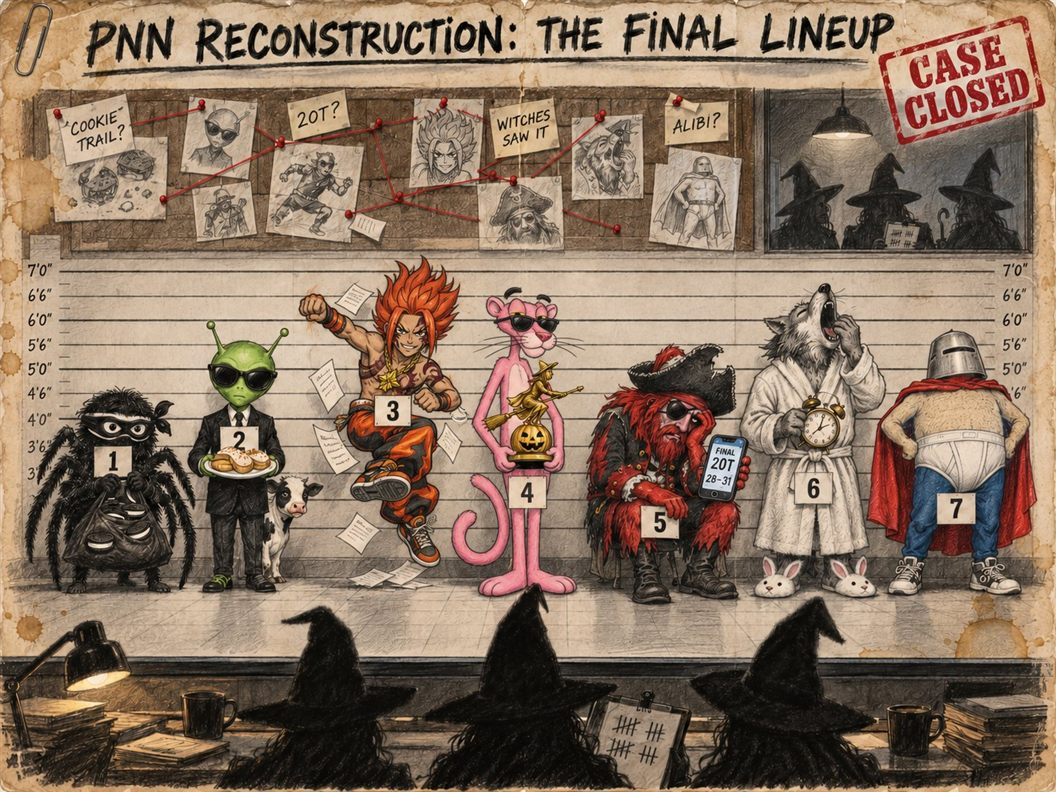
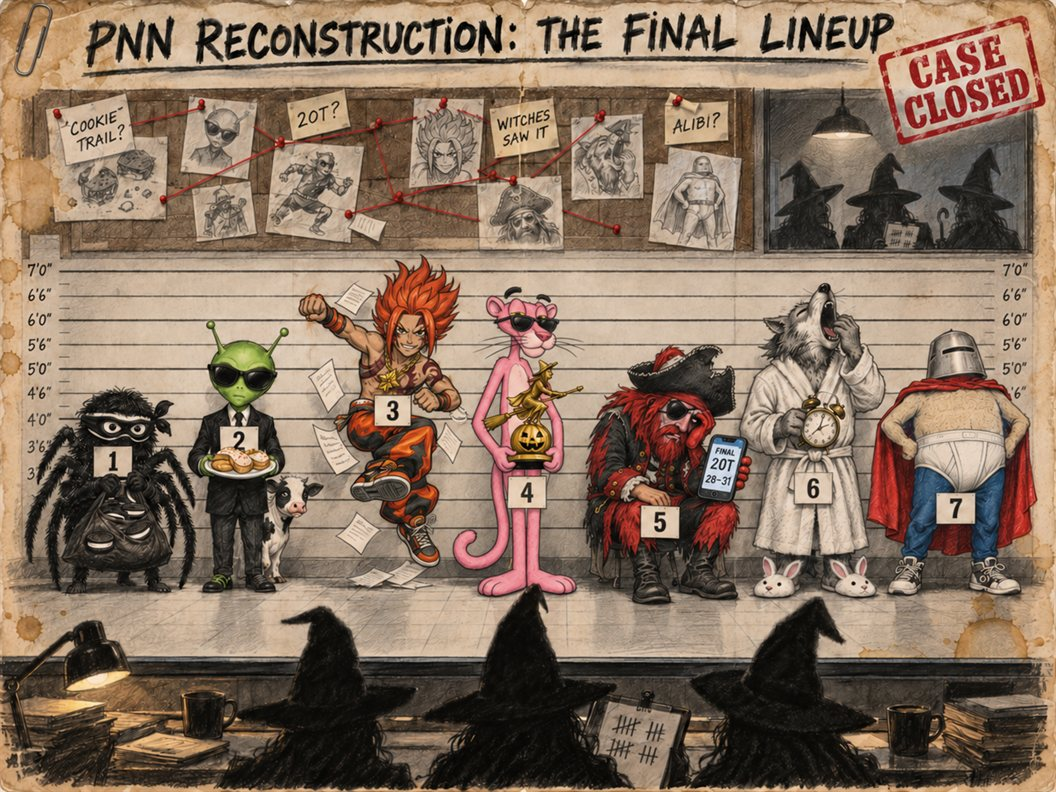
Case 21, newsletter 12: corrected final lineup sketch; move unassigned media to resources/
Replace Exhibit A and the newsletter 012 thumbnail with the corrected lineup
(pirate no longer head-in-hand) and update the alt text and caption to match.
Unassigned media now lives in an untracked resources/ folder.

diff --git a/docs/repository-reference.md b/docs/repository-reference.md
@@ -61,7 +61,7 @@ The Tip Line links to `tips/flier.html`, a one-sheet letter portrait flier using
 
 The stable `/newsletter/` page lists numbered editions built from `data/newsletters/<id>.json` by `npm run build`; `npm run new-edition -- 002` scaffolds a draft. Shared markup lives in `src/email/newsletter.html` and `src/email/newsletter.js`. Edition 001 is now `published` at `newsletter/001/index.html`, not a sample. No separate plain-text file is maintained because EmailOctopus generates that alternative. Emails include the three required EmailOctopus footer tags and no website scripts/analytics. They use presentation tables, inline core styles, system fonts, absolute HTTPS links, and PNG/JPEG imagery. Keep copy readable with images blocked and without media queries or JavaScript. **Click-through levers (the newsletter exists to send readers to the site):** the featured-case link is a button with an automatic "N exhibits on file" line (optional `featuredCase.hook` adds a few words), sections may contain `{type: "cta", label, href, note?}` button blocks, and text runs may carry `href` for inline links. Links and buttons may only point at `https://purrpetrators.net/<path>` (no query strings or other hosts; enforced by `validateNewsletter`). **Tracking and images:** every site link in the built email gets `?utm_source=newsletter&utm_medium=email&utm_campaign=edition-<id>&utm_content=<placement>` automatically (authors write clean URLs; JSON never carries UTM). Placements: `logo`, `featured-image`, `featured-button`, `s<section>-button`, `s<section>-link`, `footer-dispatch`, `footer-tips`, `footer-corrections`. The site's Google tag records them as campaign traffic; EmailOctopus reports its own click counts, and security scanners can inflate clicks, so compare the two before trusting a spike. An edition may set `featuredCase.image` (`src` under `assets/email/`, `width`, `height`, `alt`, `caption`) to show a linked thumbnail; make a small JPEG copy (about 1056 px wide, under about 250 KB) of an approved image, never the full evidence file, show no recognizable real people, and state AI reconstructions in the caption. The footer is one Dispatch button, the Tip Line, the Corrections link, the hotline, and the review notice; do not add more competing links. **Experiments:** change one thing per edition and read the `utm_content` split in Google Analytics plus the EmailOctopus click report: teaser length, button label, subject line, and whether the image is present. Vendor claims (button lifts, curiosity-gap gains) are directional; the only controlled test found showed a higher placement and a larger button did not help, so measure before keeping a change. Keep one primary destination per edition (usually the featured case), repeat it as a button after the main feature and near the end, tease rather than summarize the evidence, and say in the `note` that the exhibits live on the site. Draft status hides listing links, not files. Keep the neutral **PNN Newsletter** name and preserve edition URLs. See README for schema and import instructions. Future approved PDFs belong under `public/assets/downloads/`; only link files that exist.
 
-**Established edition format:** every edition opens with the optional `featuredCase` block, rendered first as a short, funny, spoiler-light hint toward the latest published case (not a full case summary) — the generator resolves its case title/number from case data and renders it as the opening headline. The `sections` array supplies the main feature next: a hilarious, exaggerated PNN article in the established mock-institute voice, with invented/comedy statistics where useful. The template then automatically appends the fixed PNN Dispatch and Tip Line/hotline closing block; do not duplicate dispatch or tip-line content inside `sections`. Edition 001's main feature (Go Big or Go Haunt / Pink Advantage spoof science / mascot confidence) was drafted using the supplied numbered reference assets in `unassigned-evidence/` (`6587989890773275282.jpg.jpeg`, `9209352435477332460.png`, `20261007_154710.pdf`) purely as tone/content inspiration. Those three files depict a third-party trademarked cartoon character and a fake research-institute mockup; they are reference material only and must never be embedded, linked, or published on the site or in emails. Future numbered/unlabeled reference assets should be treated the same way unless the user explicitly confirms they are approved game material for publication.
+**Established edition format:** every edition opens with the optional `featuredCase` block, rendered first as a short, funny, spoiler-light hint toward the latest published case (not a full case summary) — the generator resolves its case title/number from case data and renders it as the opening headline. The `sections` array supplies the main feature next: a hilarious, exaggerated PNN article in the established mock-institute voice, with invented/comedy statistics where useful. The template then automatically appends the fixed PNN Dispatch and Tip Line/hotline closing block; do not duplicate dispatch or tip-line content inside `sections`. Edition 001's main feature (Go Big or Go Haunt / Pink Advantage spoof science / mascot confidence) was drafted using the supplied numbered reference assets in `../resources` (`6587989890773275282.jpg.jpeg`, `9209352435477332460.png`, `20261007_154710.pdf`) purely as tone/content inspiration. Those three files depict a third-party trademarked cartoon character and a fake research-institute mockup; they are reference material only and must never be embedded, linked, or published on the site or in emails. Future numbered/unlabeled reference assets should be treated the same way unless the user explicitly confirms they are approved game material for publication.
 
 The newsletter sign-up embed lives in `data/newsletter-subscribe.json` (`embedSrc`, empty by default) and renders on `/newsletter/` at build time (`NewsletterIndexPage`). It uses EmailOctopus's official JavaScript form embed (`<script data-form>` from a sharded `eomailN.com` domain), which EmailOctopus's dashboard supplies per form; `src/lib/embeds.js` validates the URL shape and rebuilds the script tag itself rather than trusting pasted HTML, and adds a `<noscript>` fallback pointing to the Tip Line. This is currently the only part of the site that requires browser JavaScript to function. See README for the setup steps.
 
@@ -123,14 +123,14 @@ Moved from `AGENTS.md`. Page paths are public URLs produced by `src/routes.jsx`.
 | `data/news-ticker.json`, `scripts/ticker.js`, `scripts/ticker.test.mjs` | Pool of 100+ fictional `{tag, text}` headlines for the "PNN LIVE" ticker under the masthead of the homepage and generated case pages. The generator renders a static ticker (live case headlines, an index-standings line, and a sample of pool items) between `BEGIN/END GENERATED TICKER` on the homepage and in `page()`; `ticker.js` fetches the pool, mixes in a random sample on each visit, scrolls it, and adds a pause button (hidden without JS; no animation under `prefers-reduced-motion`). Headlines must stay obviously fictional, make no claims about real people or real organizations, invent no point values or dates, and claim no hotline staffing, recording, or SMS. **Where headlines live:** `data/news-ticker.json` holds only generic items. A headline about one case or newsletter edition belongs in that record's optional `tickerItems` array (`{tag, text}`, text up to 170 characters, unique across all ticker data); each published case needs at least 3 and each non-draft edition at least 2, enforced by `validateRawData`. `mergeTickerPool` in `src/lib/model.js` builds the static ticker from the generic pool plus published cases and non-draft editions, and `ticker.js` rebuilds the same pool in the browser from the files listed in the track's `data-more-src` (`cases.json`, then each `data/newsletters/<id>.json`; any that fail to load are skipped). Unpublished cases and draft editions contribute nothing, and the email HTML never renders `tickerItems`. |
 | `teams/index.html`, `teams/<slug>/index.html`, `data/team-dossiers.json` | Generated team dossier room: one page per team in `data/teams.json` with codename, tagline, threat level, known-for bullets, a long roasting file, strengths, weaknesses, Clueso's advice, case history, and index standing. Dossiers are written only from approved case material and the teams' own statements; they must not invent rosters, members, incidents, or private details, and every team gets roasted. Team names in case text, ratings, the subject panel, and the homepage index link to these pages; `PNN-00X` mentions in dossiers link to cases. |
 | `data/countdown.json`, `scripts/countdown.js`, `scripts/countdown.test.mjs` | Homepage party countdown between `BEGIN/END GENERATED COUNTDOWN`. The user supplied the date: Saturday, October 24, 2026 at 5:30 PM, America/Denver (`2026-10-24T17:30:00-06:00`). Copy mentions time running out to prank and bribe a witch, and repeats only the known October 22 prank/photo deadline. Once `data/final-results.json` exists, the same section becomes a "reign clock" counting up from its `decidedAt` (the pink team's win, 10:15 PM October 24, 2026); `countdown.js` exports `elapsed` for that mode. |
-| `data/final-results.json`, `src/components/home/FinalResults.jsx` | Homepage final scoreboard for the 2026 season, placed under the hero: standings (every team once, points high to low, shared ranks for ties), the identical 22-point base, category winners (ties listed), and a link to the final case (`caseId`, PNN-021). Validated by `validateFinalResults` in `scripts/lib/load-data.mjs`. Transcribed from the witches' scoresheet, which is kept in `unassigned-evidence/` and is never published because it shows the witches' real names; public copy uses Wanda, Hilda, and Glenda. |
+| `data/final-results.json`, `src/components/home/FinalResults.jsx` | Homepage final scoreboard for the 2026 season, placed under the hero: standings (every team once, points high to low, shared ranks for ties), the identical 22-point base, category winners (ties listed), and a link to the final case (`caseId`, PNN-021). Validated by `validateFinalResults` in `scripts/lib/load-data.mjs`. Transcribed from the witches' scoresheet, which is kept in `../resources` and is never published because it shows the witches' real names; public copy uses Wanda, Hilda, and Glenda. |
 | `scripts/not-found.js`, `scripts/not-found.test.mjs` | A random Clueso one-liner on the 404 page; a static line is the no-JS fallback. |
 | `data/daily-tips.json`, `scripts/generate-daily-tip.mjs`, `scripts/daily-tip.js`, `scripts/daily-tip.test.mjs` | At least 20 `{topic, text}` tips for the homepage Daily Tip-Off. The generator embeds the list and a static fallback tip between `BEGIN/END GENERATED DAILY TIP`; the browser script shows a different tip each local day. Tips must repeat only the real game rules. |
 | `cases/index.html`, `cases/001/index.html`, `cases/002/index.html`, `cases/003/index.html`, `cases/004/index.html`, `cases/005/index.html` | Generated archive, PNN-001 name reveal, PNN-002 early witch bribe, PNN-003 dog-walking report, PNN-004 Area 51 Bureau dumpster fire, and PNN-005 Pyro Posse laundry night |
 | `assets/evidence/001/` | PNN-001 media: `black-webb-bandits-panther-reconstruction.mp4` and extracted `black-webb-bandits-panther-reconstruction-poster.jpg` |
 | `assets/evidence/002/` | PNN-002 supplied image: `black-webb-bandits-witch-flier.png` |
 | `assets/evidence/003/` | AI-generated Operation Loose End comic reconstruction for PNN-003 |
-| `unassigned-evidence/` | Supplied media not yet assigned to a case. Lives outside `public/` so it is not deployed; move an item to `public/assets/evidence/<case-id>/` when assigning it. |
+| `../resources` | Supplied media not yet assigned to a case. Lives outside `public/` so it is not deployed; move an item to `public/assets/evidence/<case-id>/` when assigning it. |
 | `assets/images/pnn.svg` | Custom connected PNN lettering, magenta strokes with white inset lines; used in both headers and homepage hero |
 | `assets/images/pnn.png` | Transparent 900 × 330 PNG export of the PNN SVG for email mastheads |
 | `assets/images/logo.png` | Supplied team artwork, 600 × 516 |

diff --git a/README.md b/README.md
@@ -56,7 +56,7 @@ Case IDs are stable three-digit strings, with matching numbers such as `001` / `
 
 Image evidence uses `type: "image"`, a local PNG/JPEG/WebP `src`, positive integer `width` and `height`, and nonempty `id`, `alt`, `label`, `description`, and `caption`. Optional boolean `reconstruction: true` labels an image PNN reconstruction instead of supplied game material; use it for generated illustrations with explicit reconstruction captions. PNN-003 includes an AI-generated sketch in `public/assets/evidence/003/` alongside its anonymous witness report. Images remain uncropped; the first evidence item supplies either its image or video poster to the homepage. Written witness evidence uses `type: "report"`, nonempty `id`, `label`, `description`, and `caption`; no media file is required. The generator escapes the report and labels it as a witness account. Report-only cases produce a text-only homepage feature. PNN-003, at `/cases/003/`, covers the Tightie Whities dog-walking report; its opening timestamp is the case creation time, not an asserted encounter time. Optional `organizerNotice` records contain `attribution`, `timeLabel`, and plain-text `paragraphs`, rendered as an escaped quotation. PNN-002 uses the supplied witch flier and reminder, dated October 6, 2026 at 8:28 p.m. America/Denver as confirmed by the user.
 
-Preview `/cases/`, `/cases/001/`, and `/cases/002/` over HTTP. Explicit `index.html` links also work when opening files directly. Each case displays a subject-team panel using the name, color, and logo resolved from `data/teams.json` through `suspectTeamId` (plus one more panel per `coSuspectTeamIds` entry). The first case uses `assets/evidence/001/black-webb-bandits-panther-reconstruction.mp4` and an extracted `black-webb-bandits-panther-reconstruction-poster.jpg`. Store case media under `public/assets/evidence/<case-id>/` (referenced in JSON as `assets/evidence/<case-id>/...`); keep media awaiting assignment in `unassigned-evidence/`. The former spotlight files have been moved into this structure without altering their contents. Update JSON paths when assigning media. The case generator validates required content, team references, unique IDs, and media paths, and escapes rendered text.
+Preview `/cases/`, `/cases/001/`, and `/cases/002/` over HTTP. Explicit `index.html` links also work when opening files directly. Each case displays a subject-team panel using the name, color, and logo resolved from `data/teams.json` through `suspectTeamId` (plus one more panel per `coSuspectTeamIds` entry). The first case uses `assets/evidence/001/black-webb-bandits-panther-reconstruction.mp4` and an extracted `black-webb-bandits-panther-reconstruction-poster.jpg`. Store case media under `public/assets/evidence/<case-id>/` (referenced in JSON as `assets/evidence/<case-id>/...`); keep media awaiting assignment in `resources`. The former spotlight files have been moved into this structure without altering their contents. Update JSON paths when assigning media. The case generator validates required content, team references, unique IDs, and media paths, and escapes rendered text.
 
 Only records with `published: true` appear in the generated listing. This flag does not make JSON private or remove previously generated pages. If withdrawing an existing case, explicitly replace its old page with an appropriate notice while preserving any printed QR URL. Never store private drafts in deployed data.
 
@@ -97,7 +97,7 @@ This creates `data/newsletters/002.json` with neutral draft copy. Existing sourc
 
 Each filename matches its three-digit `id`. Required fields: `id`, `status` (`draft`, `sample`, or `published`), `title`, `subject`, `preheader`, and nonempty `sections`. Each section has `tone` (`dark`, `white`, `blush`, or `pink`), `heading`, optional `kicker`, and `blocks`. Paragraph blocks use `type: "paragraph"` and `runs` of `{ "text": "...", "bold": true, "italic": true }` (format flags optional); newline characters become line breaks. Statistics blocks use `type: "stats"` and `items` with `value` and `text`. Keep spoof-science labels explicit. Text is HTML-escaped; content merge-tag injection is rejected.
 
-An optional single `featuredCase` contains `id`, an editorial `teaser`, and `linkLabel`. The generator validates that the case is published and resolves its case number/title from `data/cases.json`. **Every edition's established format:** when present, `featuredCase` always renders first, as a short, funny, spoiler-light hint toward the latest published case (teaser copy, not a full case summary), styled as the opening headline. The `sections` array supplies the main feature next: a hilarious, exaggerated PNN article with invented statistics in the established mock-institute voice. The template then automatically appends the fixed PNN Dispatch and Tip Line/hotline closing block; do not duplicate that content in `sections`. Edition 001 published this way: its opening hint points to case 003, and its main feature (Go Big or Go Haunt / Pink Advantage spoof science / mascot confidence) was drafted from the supplied numbered reference assets in `unassigned-evidence/` (a dispatch-flyer mockup, a Pink Panther-themed newsletter concept, and a fake research-institute PDF). Those reference files are inspiration only: they depict a third-party trademarked character and are never embedded or linked from the published site or emails. Review the hint/teaser copy whenever the latest case changes.
+An optional single `featuredCase` contains `id`, an editorial `teaser`, and `linkLabel`. The generator validates that the case is published and resolves its case number/title from `data/cases.json`. **Every edition's established format:** when present, `featuredCase` always renders first, as a short, funny, spoiler-light hint toward the latest published case (teaser copy, not a full case summary), styled as the opening headline. The `sections` array supplies the main feature next: a hilarious, exaggerated PNN article with invented statistics in the established mock-institute voice. The template then automatically appends the fixed PNN Dispatch and Tip Line/hotline closing block; do not duplicate that content in `sections`. Edition 001 published this way: its opening hint points to case 003, and its main feature (Go Big or Go Haunt / Pink Advantage spoof science / mascot confidence) was drafted from the supplied numbered reference assets in `resources` (a dispatch-flyer mockup, a Pink Panther-themed newsletter concept, and a fake research-institute PDF). Those reference files are inspiration only: they depict a third-party trademarked character and are never embedded or linked from the published site or emails. Review the hint/teaser copy whenever the latest case changes.
 
 Drafts generate for review but are excluded from the listing; samples and published editions are listed newest ID first. These flags do not provide privacy or delete old pages. Preserve edition URLs; explicitly replace withdrawn editions with notices. A `published` label does not send an email.
 

diff --git a/AGENTS.md b/AGENTS.md
@@ -140,7 +140,7 @@ Potential areas include Breaking News, Team Reports, PNN Investigations, Suspect
 
 Edit `data/cases.json` and run `npm run build` (or `npm run dev` and refresh). Do not commit generated HTML; CI builds and deploys it from `main`. Markup lives in the React components (`src/components/case/`, `src/pages/CasePage.jsx`) and shared styles in `public/assets/css/styles.css`. The model resolves the subject team's name, color, and logo from `data/teams.json` via `suspectTeamId` and the case page displays a subject-team panel above the evidence. Do not duplicate team branding in case records. The homepage feature is the newest published case, rendered by `src/components/home/FeaturedCase.jsx`. There is no browser JSON loader except the dispatch and ticker scripts.
 
-Case records use a unique three-digit string `id`, matching `caseNumber` (`PNN-001`), ISO `dateOpened` with offset, IANA `timeZone`, `status`, `suspectTeamId`, opt. `coSuspectTeamIds`, `incidentTitle`, `summary`, `incidentDescription`, `suspectedMotive`, `evidence`, `investigatorNote`, `threatLevel`, `disposition`, `relatedStoryIds`, and boolean `published`. The first timestamp is `2026-10-04T19:21:00-06:00`, America/Denver. Evidence supports video records with `id`, `type: "video"`, site-root-relative MP4 `src`, local `poster` (JPEG/PNG/WebP), `label`, `description`, and `caption`. Store assigned media under `assets/evidence/<case-id>/` and unassigned media under `unassigned-evidence/`; move media and update references when assigning it. The former `assets/spotlights/` folder has been retired. The still preview is an extracted frame. Use controls and no autoplay, provide descriptive text, and clearly identify fictional reconstruction footage. Blank lines inside `incidentDescription`, `suspectedMotive`, `investigatorNote`, and `disposition` render as separate paragraphs. Blur license plates, house addresses, agent or other third-party contact details, and people before assigning photos.
+Case records use a unique three-digit string `id`, matching `caseNumber` (`PNN-001`), ISO `dateOpened` with offset, IANA `timeZone`, `status`, `suspectTeamId`, opt. `coSuspectTeamIds`, `incidentTitle`, `summary`, `incidentDescription`, `suspectedMotive`, `evidence`, `investigatorNote`, `threatLevel`, `disposition`, `relatedStoryIds`, and boolean `published`. The first timestamp is `2026-10-04T19:21:00-06:00`, America/Denver. Evidence supports video records with `id`, `type: "video"`, site-root-relative MP4 `src`, local `poster` (JPEG/PNG/WebP), `label`, `description`, and `caption`. Store assigned media under `assets/evidence/<case-id>/` and unassigned media under `resources`; move media and update references when assigning it. The former `assets/spotlights/` folder has been retired. The still preview is an extracted frame. Use controls and no autoplay, provide descriptive text, and clearly identify fictional reconstruction footage. Blank lines inside `incidentDescription`, `suspectedMotive`, `investigatorNote`, and `disposition` render as separate paragraphs. Blur license plates, house addresses, agent or other third-party contact details, and people before assigning photos.
 
 Image, written-report (`type: "report"`), organizer-notice, and reconstruction-flag rules for evidence are in [docs/repository-reference.md](docs/repository-reference.md#case-record-details); read them before adding evidence. Generated illustrations must set `reconstruction: true` and say so in the caption.
 
@@ -182,7 +182,7 @@ The user-provided public **PNN Hotline** is **+1 (801) 79-PRANK**, numerically *
 
 Edit `data/newsletters/<id>.json` and run `npm run build`; use `npm run new-edition -- 002` to scaffold a draft without overwriting existing source. Editions are built to `dist/newsletter/<id>/index.html` by `src/email/newsletter.js` from the shell `src/email/newsletter.html`; nothing is hand-edited. Drafts are omitted from the `/newsletter/` listing but remain public files; samples and published editions are listed. Keep the PNN Newsletter name and at most one featured case. The shared template supplies the logo, Dispatch button, hidden preheader, and EmailOctopus `{{SenderInfoLine}}`, `{{UnsubscribeURL}}`, and `{{RewardsURL}}` tags. No scripts/analytics or separate `.txt` files belong in email editions; EmailOctopus generates plain text (`tests/robots.test.mjs` enforces the no-script rule on the built email). Preserve old edition URLs. Non-draft editions require an ISO `date` with offset, which becomes the `/feed.xml` item date. Import the built file into EmailOctopus (download the `dist/` artifact from the workflow, or run `npm run build` locally); see README.
 
-**Established edition format, effective with edition 001:** `featuredCase`, when present, always renders first as a short, funny, spoiler-light hint toward the latest published case, not a full recap. `sections` then supplies the main feature: a hilarious, exaggerated PNN article in the mock-institute voice with comedy statistics where useful. The template automatically appends the fixed Dispatch/Tip Line ending; never duplicate that in `sections`. Treat unlabeled or purely numbered reference assets (for example `unassigned-evidence/`) as tone/content inspiration only, never publishable or embeddable material, especially if third-party trademarked characters appear.
+**Established edition format, effective with edition 001:** `featuredCase`, when present, always renders first as a short, funny, spoiler-light hint toward the latest published case, not a full recap. `sections` then supplies the main feature: a hilarious, exaggerated PNN article in the mock-institute voice with comedy statistics where useful. The template automatically appends the fixed Dispatch/Tip Line ending; never duplicate that in `sections`. Treat unlabeled or purely numbered reference assets (for example `resources`) as tone/content inspiration only, never publishable or embeddable material, especially if third-party trademarked characters appear.
 
 New subscribers are collected by EmailOctopus directly; this repo only stores the public embed-form script URL in `data/newsletter-subscribe.json` (`embedSrc`), rendered via `node scripts/generate-newsletter-subscribe.mjs` as EmailOctopus's official `<script data-form>` embed plus a noscript Tip Line fallback. See README for setup.
 
